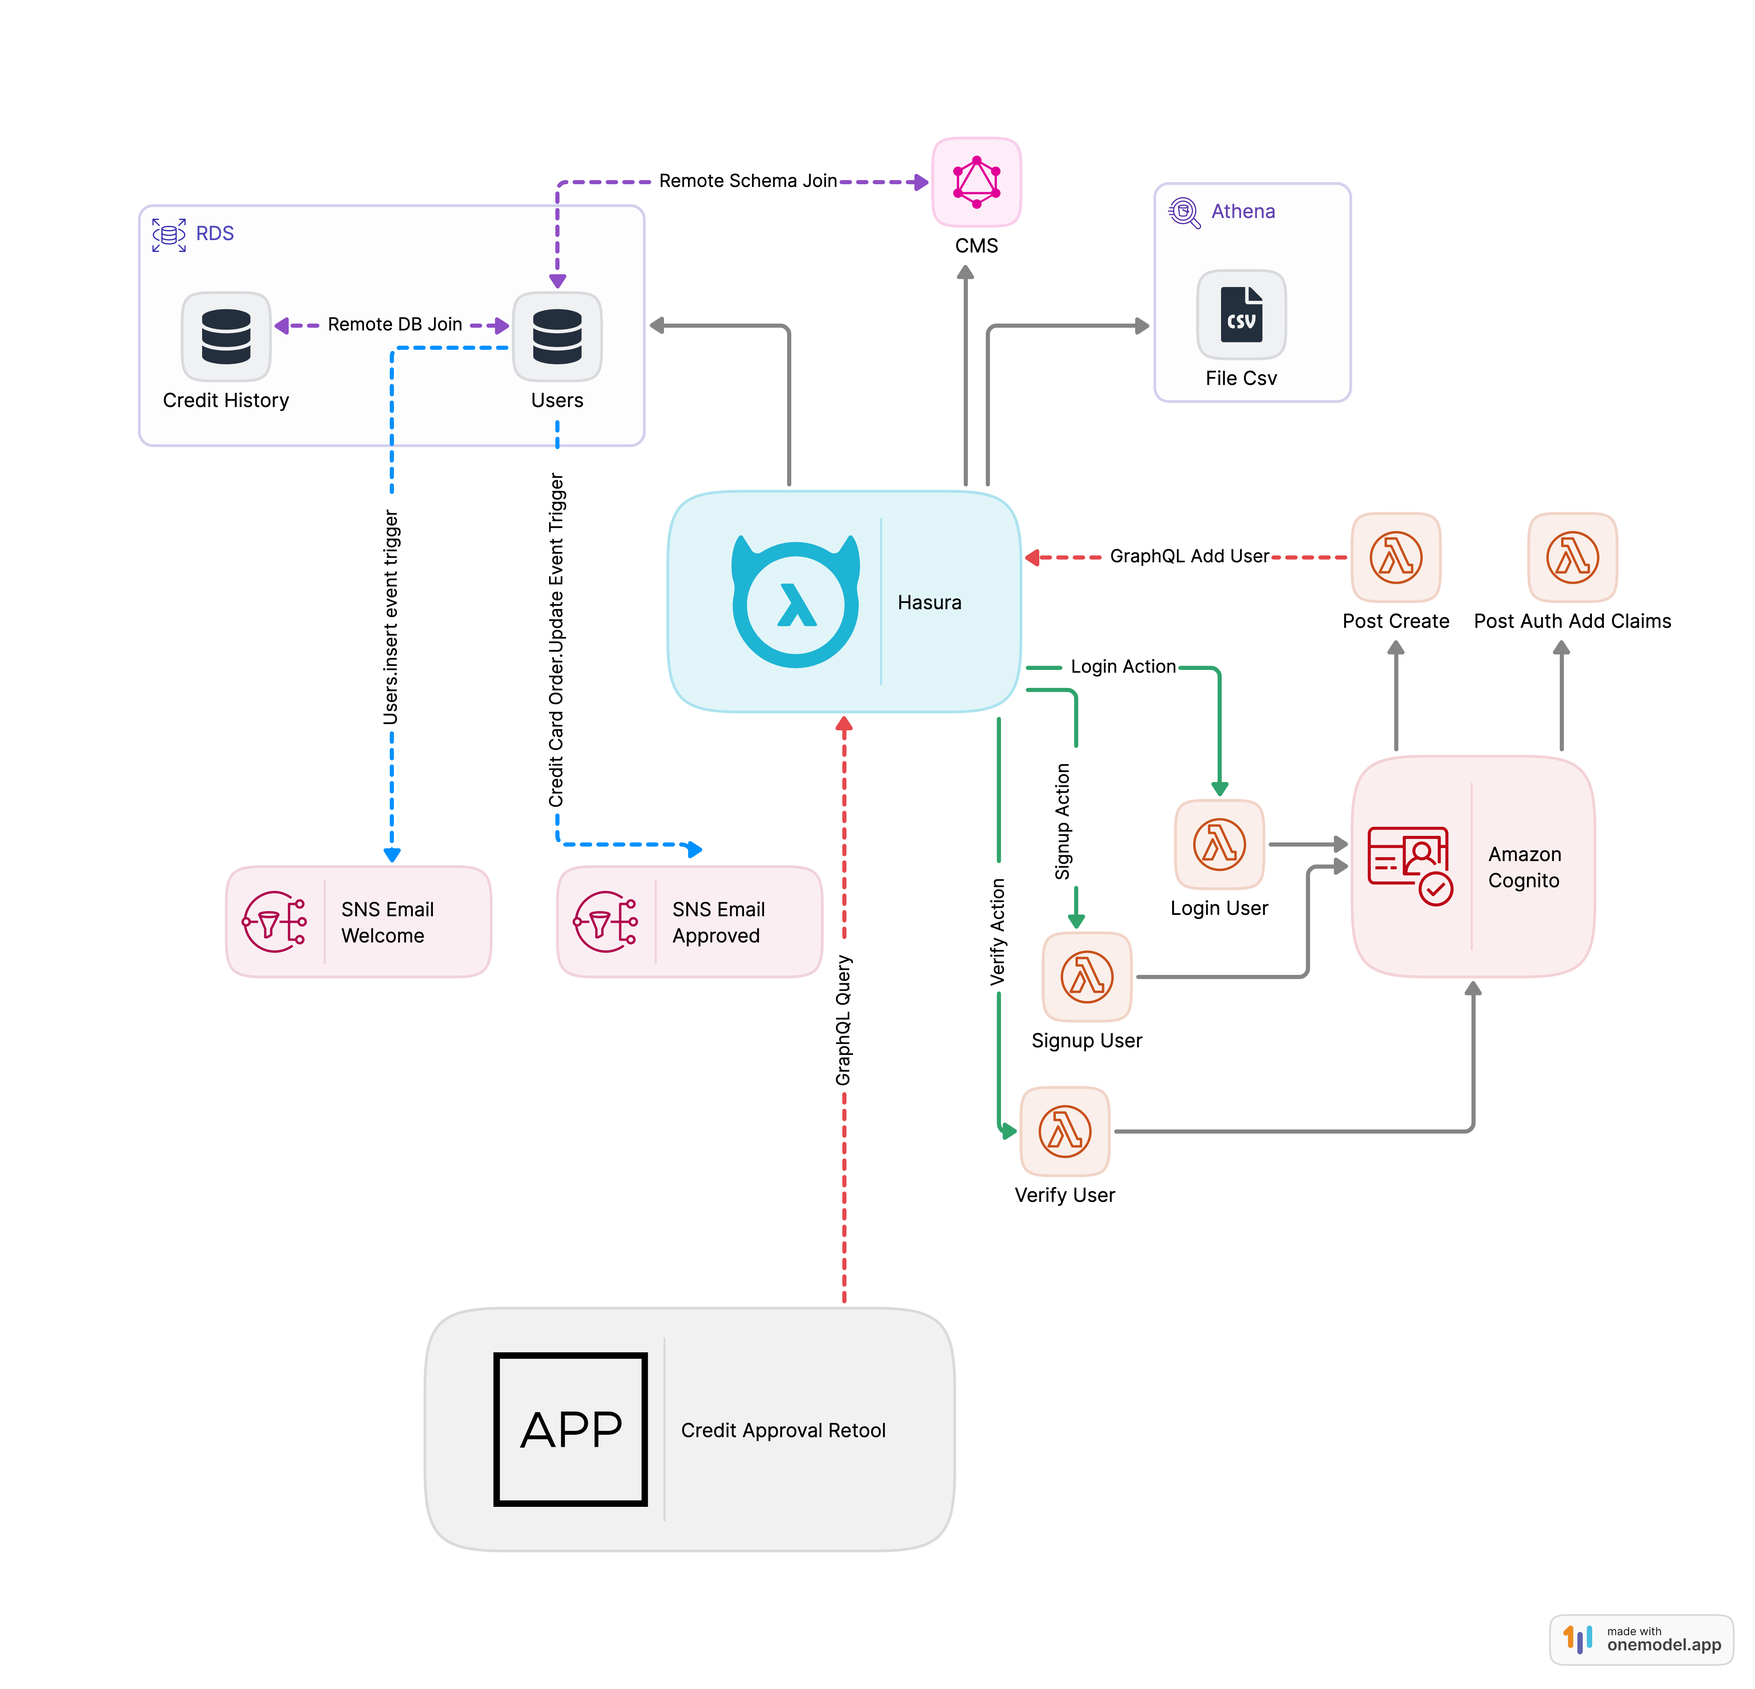
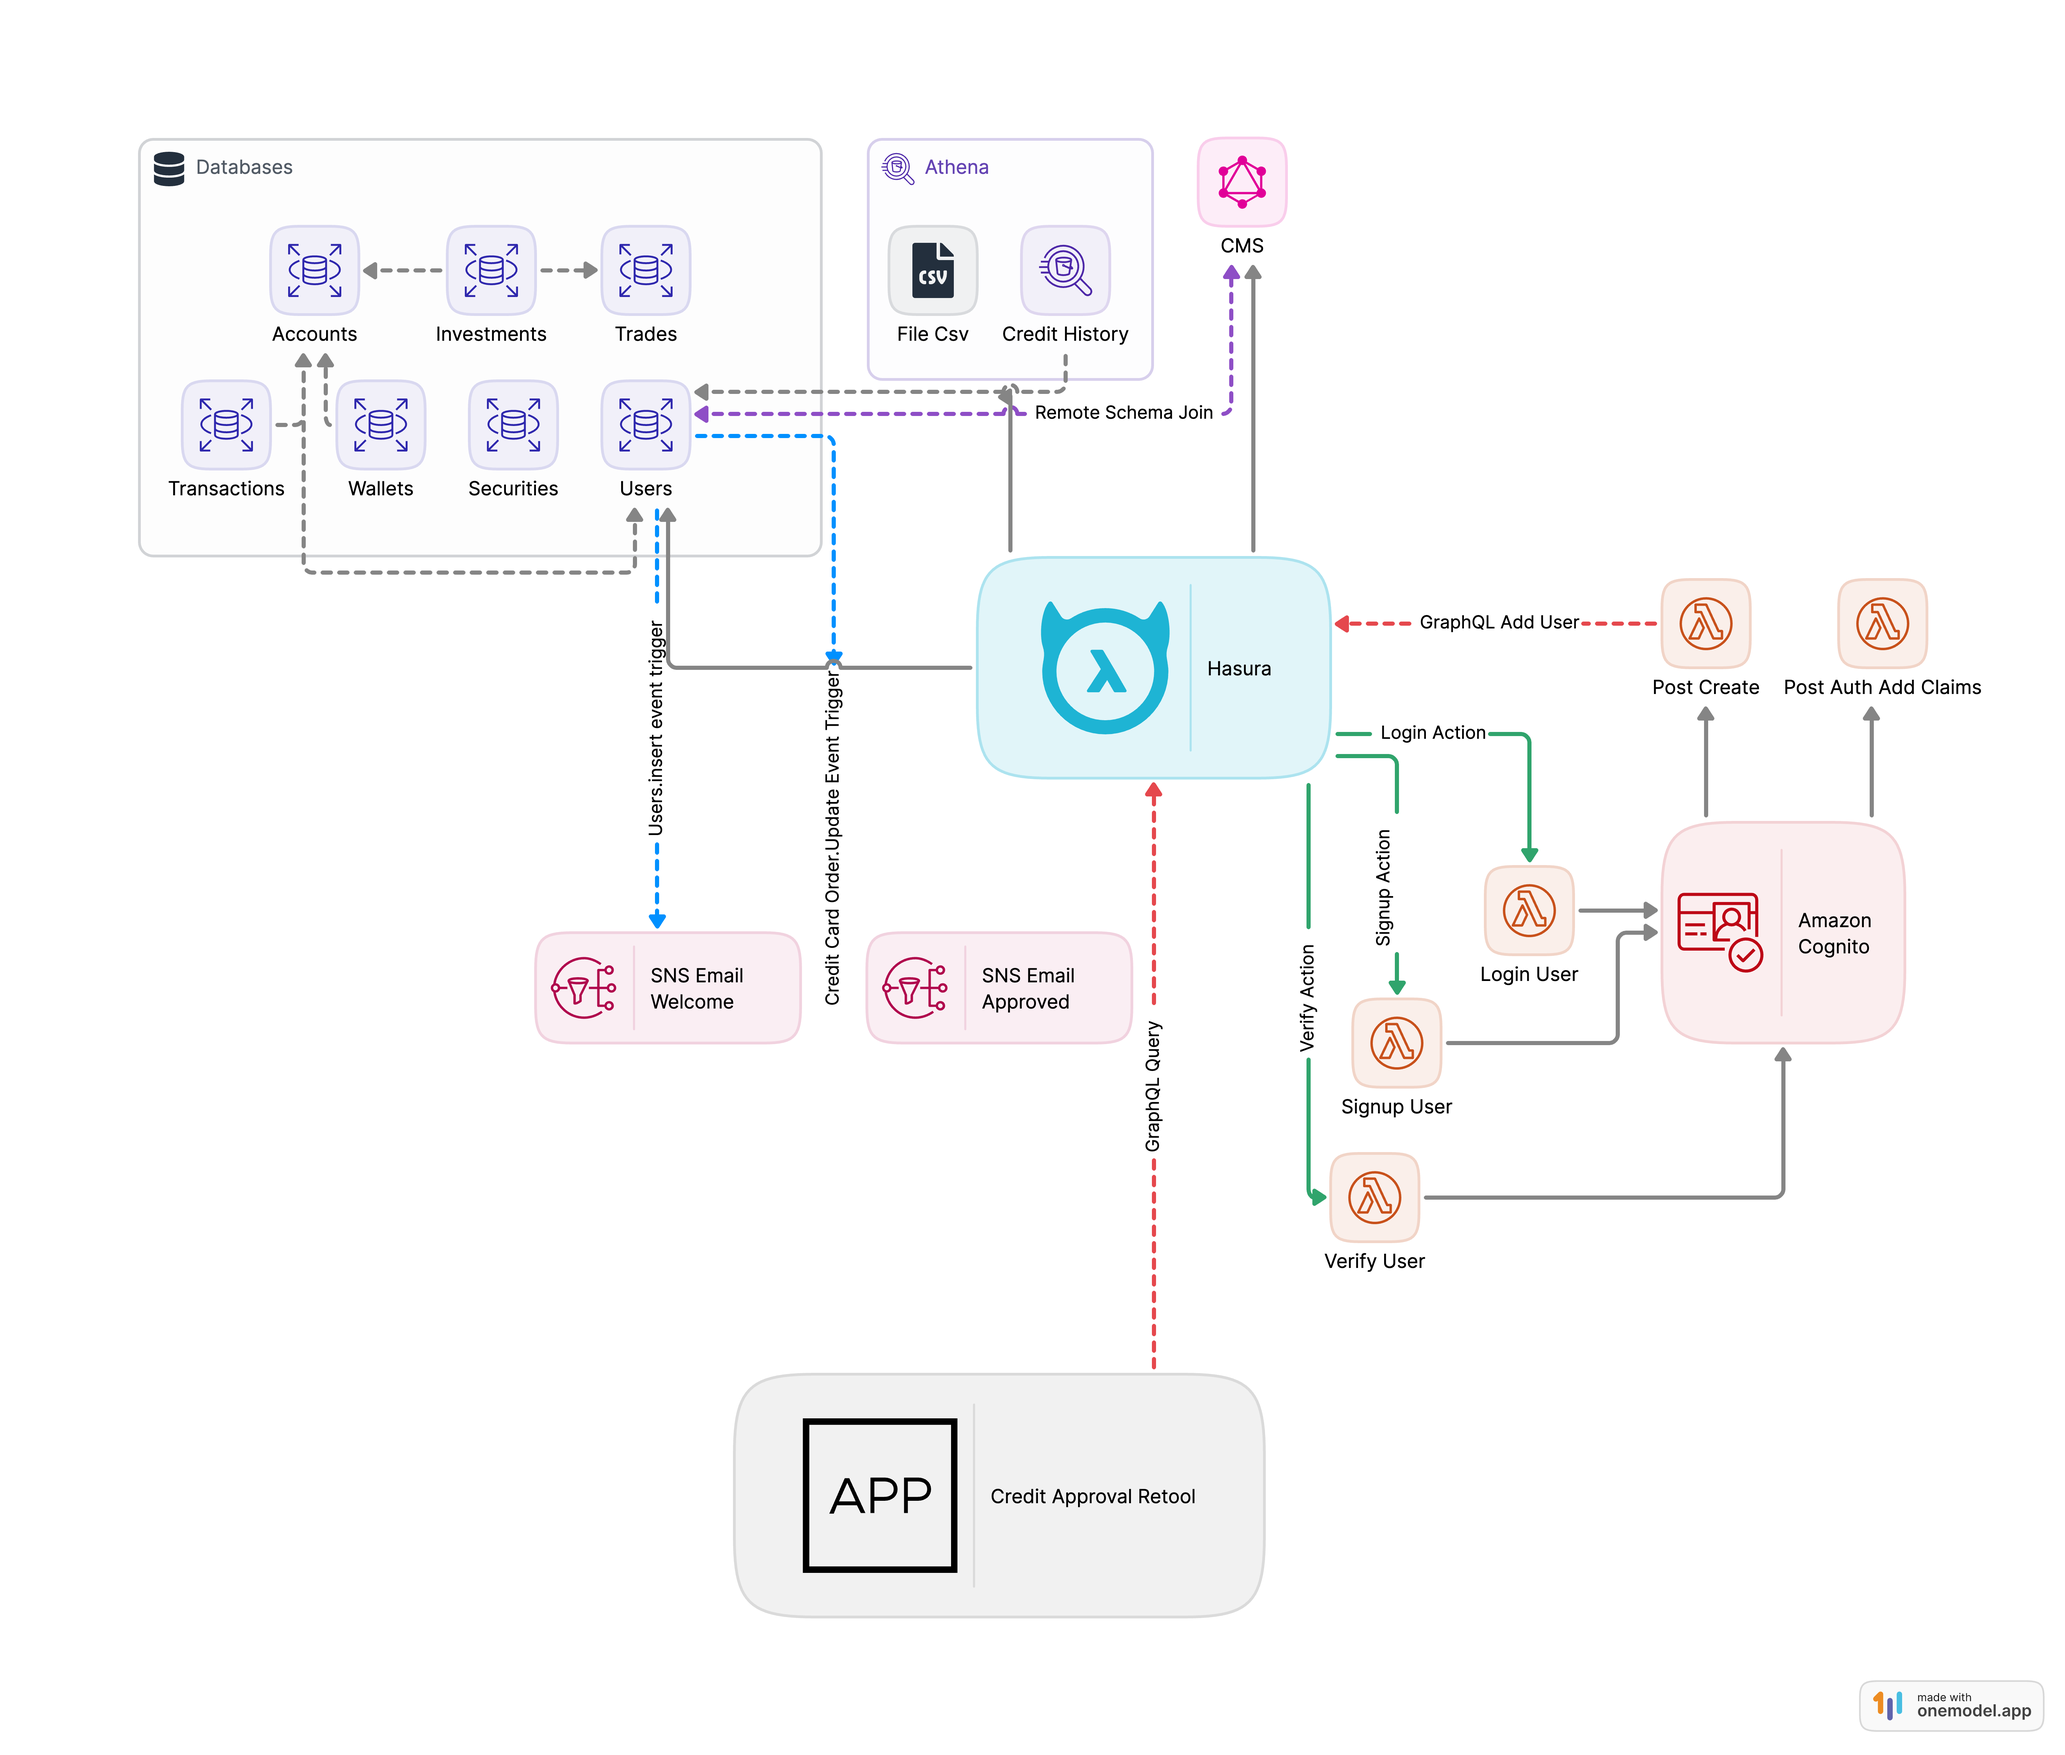
update

diff --git a/guide/02-infrastructure/Readme.md b/guide/02-infrastructure/Readme.md
@@ -8,7 +8,7 @@ You need to provision two key parts of the infrastructure. An AWS ecosystem of f
 
 To set up your AWS accounts, you need to go to the following link.
 
-https://dashboard.eventengine.run/login?hash=cba7-1e6c027654-d0
+https://dashboard.eventengine.run/login?hash=fa3e-13c11cb034-aa
 
 ![The rough architectural diagram of what we are building today.](/guide/assets/aws-arch.png)
 
@@ -23,11 +23,7 @@ https://dashboard.eventengine.run/login?hash=cba7-1e6c027654-d0
 
 ## Set up Hasura Cloud
 
-Signup at https://cloud.hasura.io
-
-### Copying Stack outputs to env vars
-
-![Env vars to copy.](/guide/assets/env-vars.png)
+This step should already be done, if not, you can [follow the step-by-step guide here.](../step-by-step/Readme.md)
 
 Also, add the EVENT_TRIGGER_URL: https://echo-server.hasura.app/api/rest/postify
 
@@ -35,9 +31,8 @@ Also, add the EVENT_TRIGGER_URL: https://echo-server.hasura.app/api/rest/postify
 
 ## House Keeping:
 
-1. Seed Cognito users
-2. Lock down RDS
-3. Add environment variables to lambdas
+1. Lock down RDS
+2. Add ENV vars to AWS Secrets
 
 ---
 
@@ -101,15 +96,6 @@ sequenceDiagram
     Hasura-->>Client: Returns authenticated user with JWT Payload
 
 ```
-
-### ENV Secrets
-
-AWS_LAMBDA_HOST
-RDS_DB_1
-RDS_DB_2
-HASURA_GRAPHQL_UNAUTHORIZED_ROLE
-HASURA_GRAPHQL_JWT_SECRET
-EVENT_TRIGGER_BASE: https://echo-server.hasura.app/api/rest/postify
 
 ### Dashboard run through
 

diff --git a/guide/03-data-joins/Readme.md b/guide/03-data-joins/Readme.md
@@ -1,6 +1,6 @@
 # Look at the data sources
 
-![Here's our primary erd chart.](/guide/assets/er-diagram.png)
+![Here's our primary erd chart.](/guide/assets/er_diagram.png)
 
 ## Database 1
 
@@ -61,25 +61,9 @@ sequenceDiagram
 
 ---
 
-## Database 2
-
-Our credit report data from the big three.
-
-## Database 3
-
-Our Crypto DB.
-
-## Database 4
-
-Static file processing with Athena statements.
-
-Steps:
-
-1. Namespace the statements field
-
 ## Connecting the data sources
 
-Use the environment variables
+Import metadata
 
 ## Adding feautures
 

diff --git a/guide/04-data-flows/Readme.md b/guide/04-data-flows/Readme.md
@@ -2,6 +2,8 @@
 
 Actions are exposed as root level queries or mutations in the GraphQL API. Events are triggers that execute under conditional changes for inserts and updates.
 
+Skip if you imported metadata.
+
 ## Adding Actions
 
 Create a series of action called Signup and we'll use this URL
